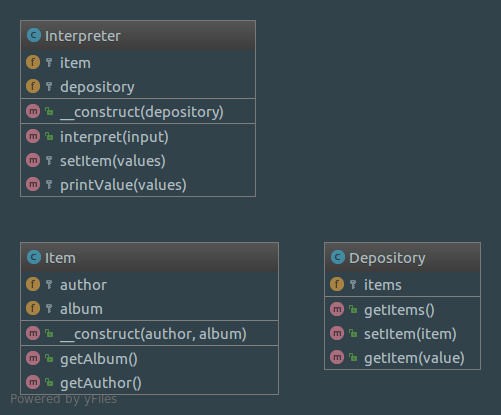
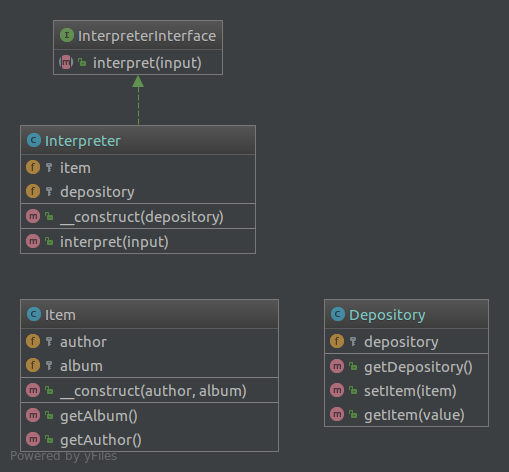
Update

Changed region(s): [[0.0299, 0.0289, 0.509, 0.5494], [0.0299, 0.5783, 0.5689, 0.9831], [0.6287, 0.5783, 0.9581, 0.9253]]

diff --git a/src/Depository.php b/src/Depository.php
@@ -18,14 +18,14 @@ class Depository
     /**
      * @var array
      */
-    protected $items = [];
+    protected $depository = [];
 
     /**
      * @return array
      */
-    public function getItems(): array
+    public function getDepository(): array
     {
-        return $this->items;
+        return $this->depository;
     }
 
     /**
@@ -33,7 +33,7 @@ class Depository
      */
     public function setItem(Item $item)
     {
-        $this->items[] = $item;
+        $this->depository[] = $item;
     }
 
     /**
@@ -42,6 +42,6 @@ class Depository
      */
     public function getItem(int $value): Item
     {
-        return $this->items[$value];
+        return $this->depository[$value];
     }
 }

diff --git a/src/Interpreter.php b/src/Interpreter.php
@@ -42,7 +42,7 @@ class Interpreter implements InterpreterInterface
 
         foreach ($input as $value) {
             if (is_numeric($value)) {
-                $item = $this->depository->getItems()[$value - 1];
+                $item = $this->depository->getDepository()[$value - 1];
             }
         }
 

diff --git a/docs.md b/docs.md
@@ -37,8 +37,6 @@
 |:-----------|:---------|
 | public | <strong>__construct(</strong><em>[\Behavioral\Interpreter\Depository](#class-behavioralinterpreterdepository)</em> <strong>$depository</strong>)</strong> : <em>void</em><br /><em>Interpreter constructor.</em> |
 | public | <strong>interpret(</strong><em>\string</em> <strong>$input</strong>)</strong> : <em>void</em> |
-| protected | <strong>printValue(</strong><em>array</em> <strong>$values</strong>)</strong> : <em>void</em> |
-| protected | <strong>setItem(</strong><em>array</em> <strong>$values</strong>)</strong> : <em>void</em> |
 
 *This class implements [\Behavioral\Interpreter\InterpreterInterface](#interface-behavioralinterpreterinterpreterinterface)*
 
@@ -50,7 +48,7 @@
 
 | Visibility | Function |
 |:-----------|:---------|
+| public | <strong>getDepository()</strong> : <em>array</em> |
 | public | <strong>getItem(</strong><em>int/\integer</em> <strong>$value</strong>)</strong> : <em>[\Behavioral\Interpreter\Item](#class-behavioralinterpreteritem)</em> |
-| public | <strong>getItems()</strong> : <em>array</em> |
 | public | <strong>setItem(</strong><em>[\Behavioral\Interpreter\Item](#class-behavioralinterpreteritem)</em> <strong>$item</strong>)</strong> : <em>void</em> |
 
